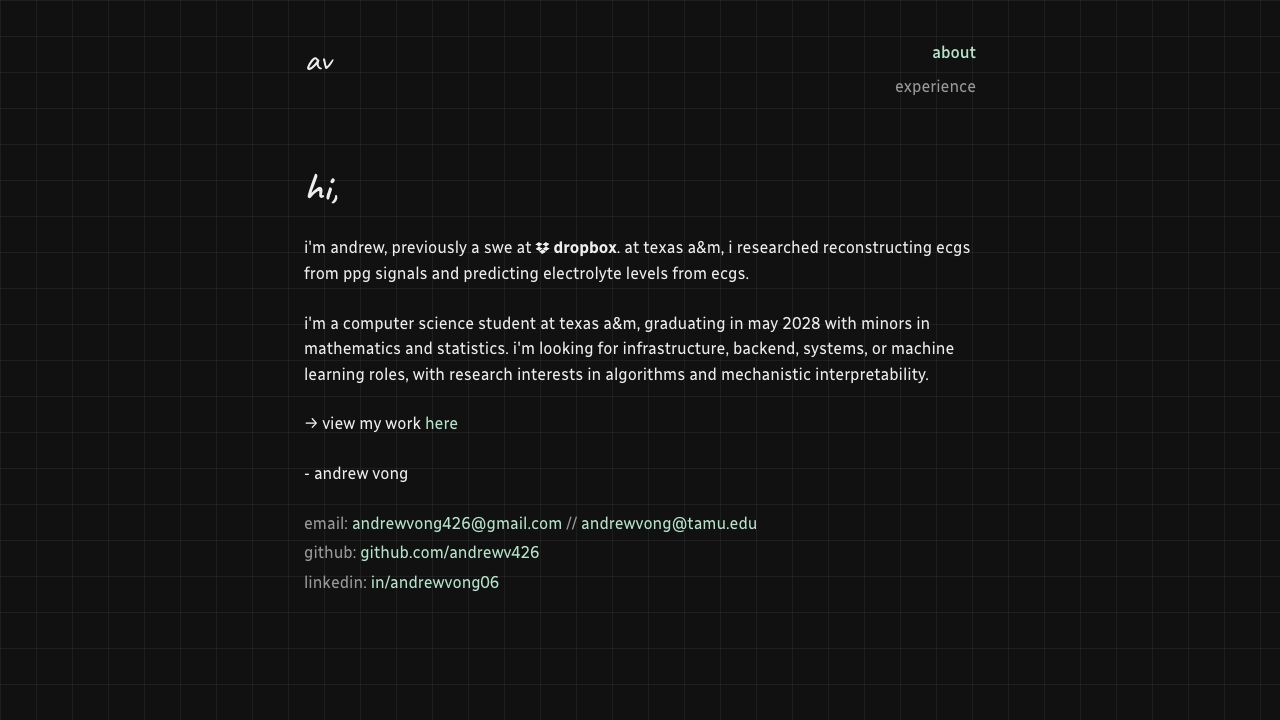
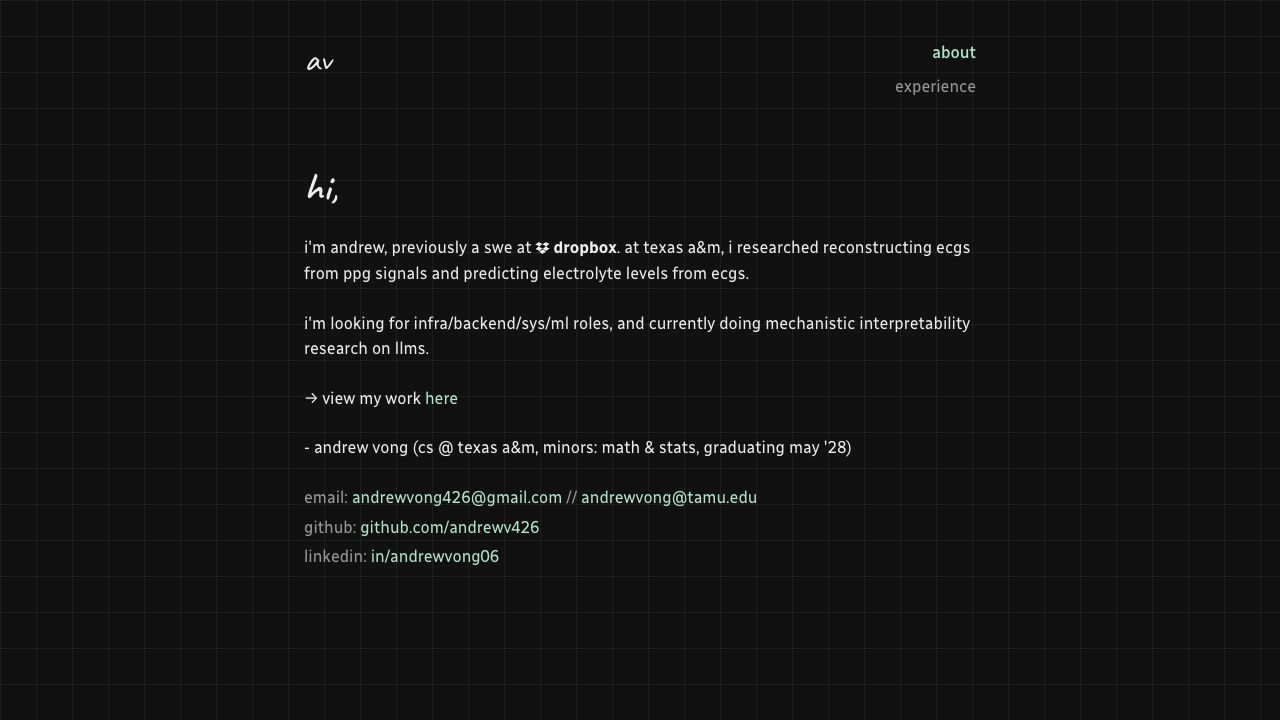
style: shorten About pitch and move education to sign-off

Changed region(s): [[0.2188, 0.4278, 0.75, 0.825]]

diff --git a/src/pages/About.jsx b/src/pages/About.jsx
@@ -16,15 +16,16 @@ function About() {
         predicting electrolyte levels from ecgs.
       </p>
       <p>
-        i'm a computer science student at texas a&amp;m, graduating in may 2028
-        with minors in mathematics and statistics. i'm looking for
-        infrastructure, backend, systems, or machine learning roles, with
-        research interests in algorithms and mechanistic interpretability.
+        i'm looking for infra/backend/sys/ml roles, and currently doing
+        mechanistic interpretability research on llms.
       </p>
       <p>
         → view my work <Link className="link-accent" to="/experience">here</Link>
       </p>
-      <p>- andrew vong</p>
+      <p>
+        - andrew vong (cs @ texas a&amp;m, minors: math &amp; stats, graduating
+        may '28)
+      </p>
       <ul className="link-list" aria-label="contact links">
         <li>
           email:{" "}
